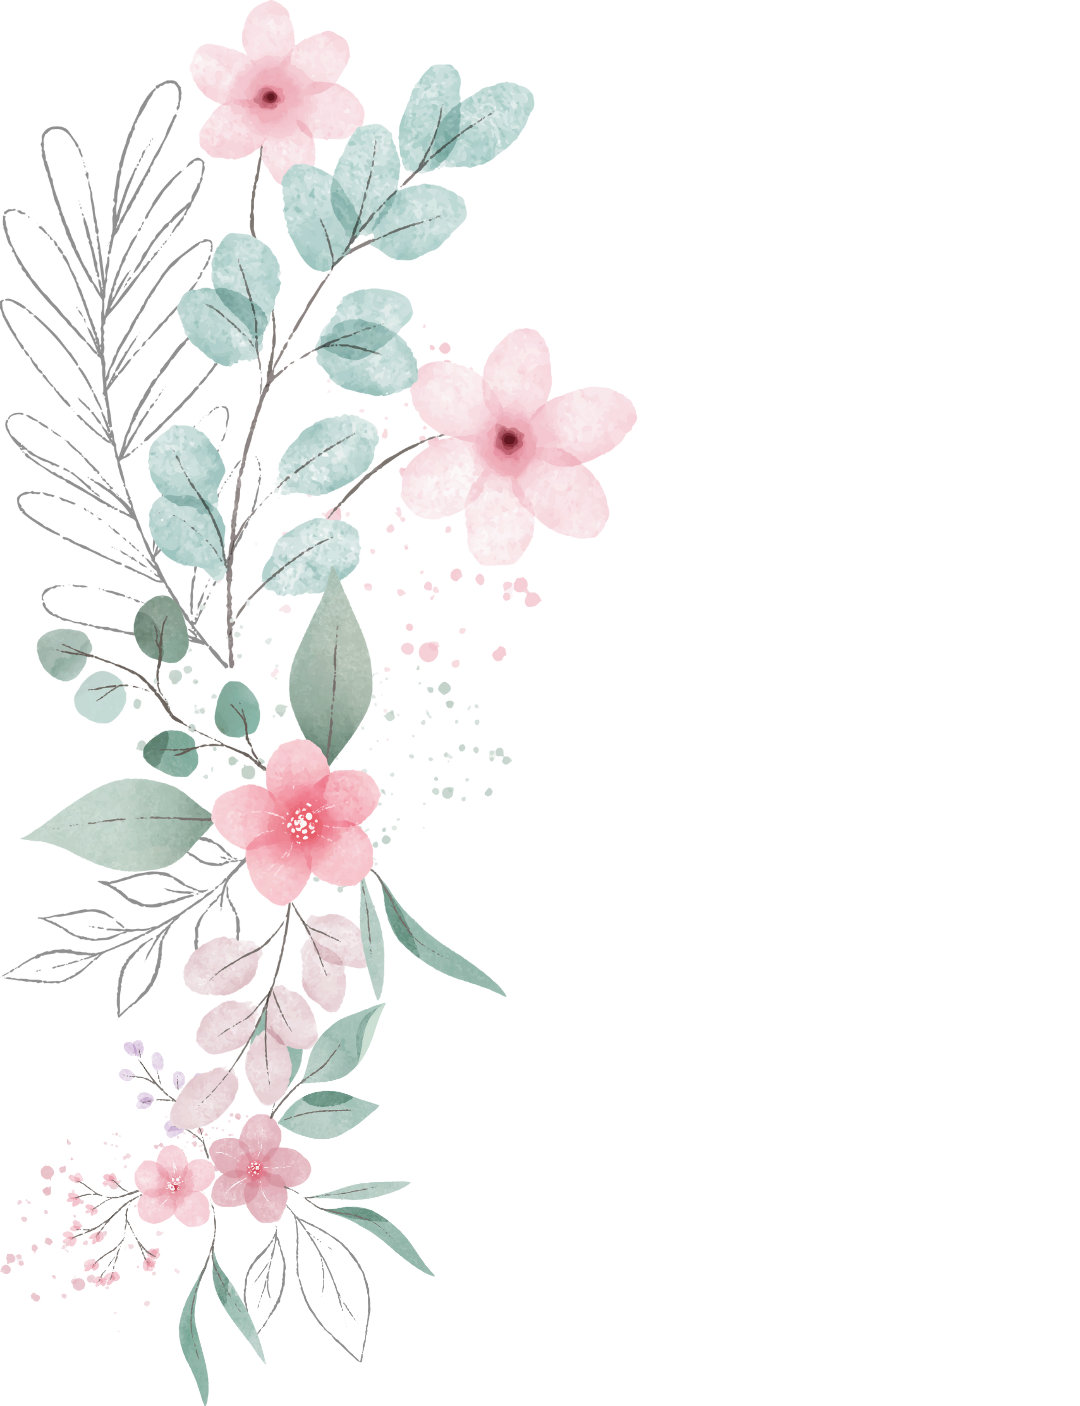
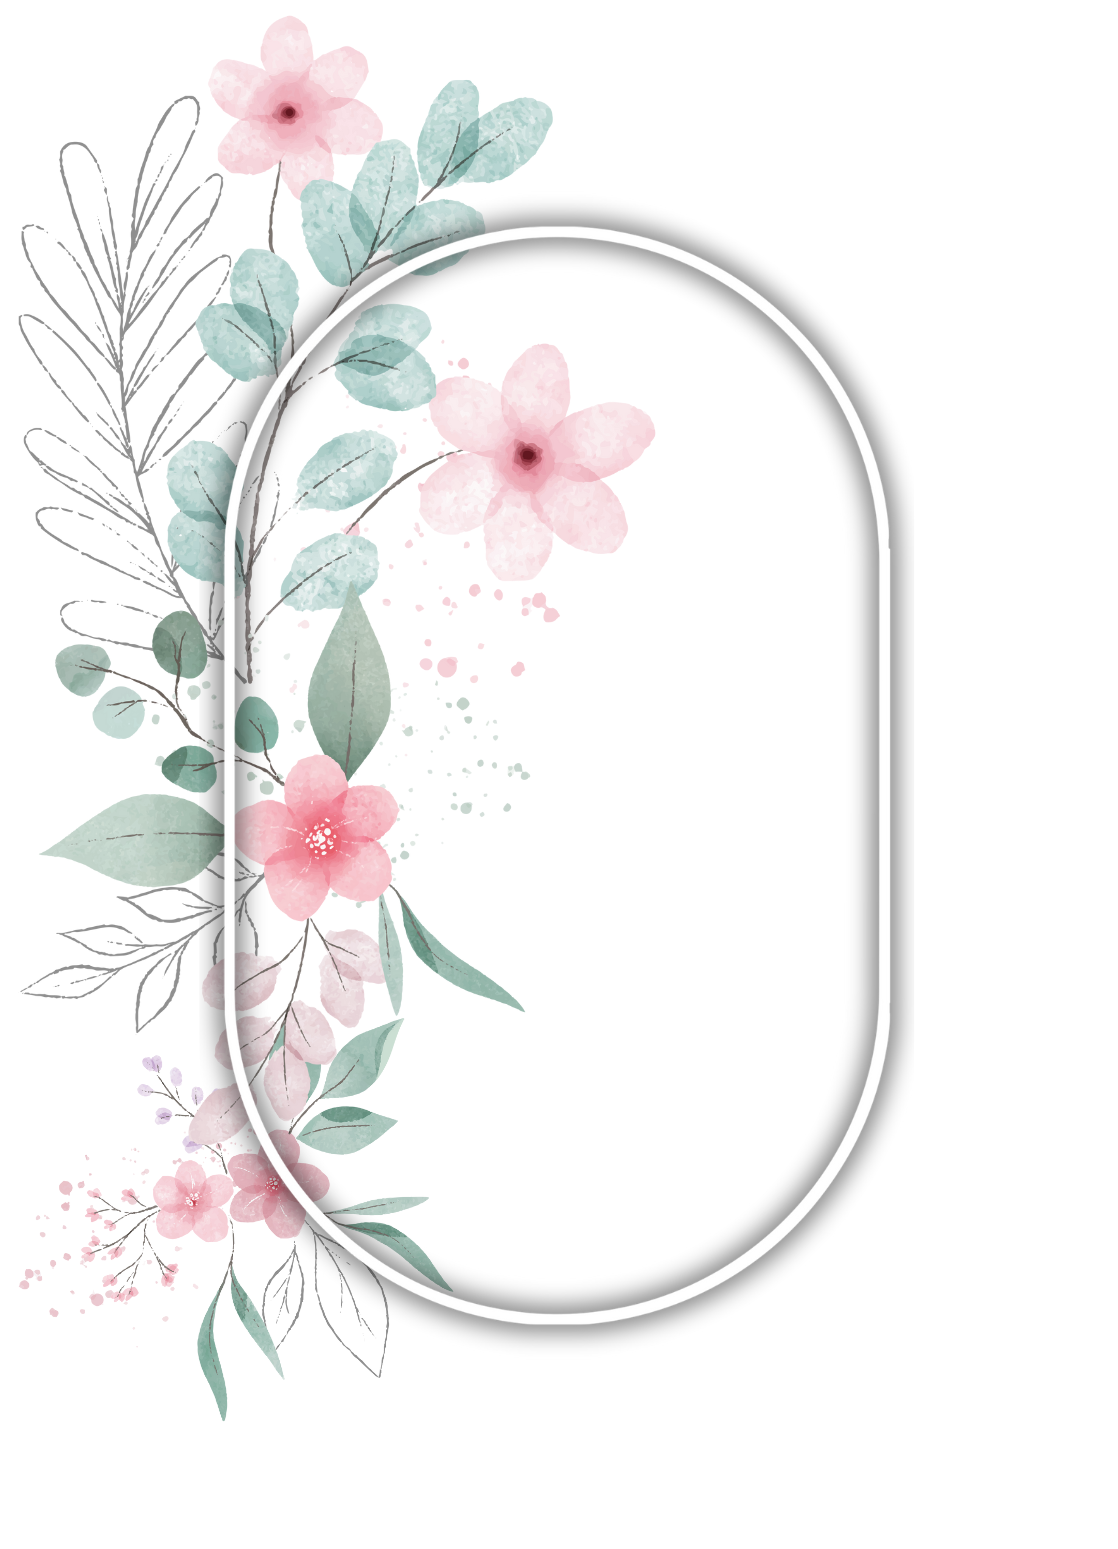
update

Changed region(s): [[0.0, 0.0, 0.825, 1.0], [0.0, 0.8869, 0.0306, 0.9175]]

diff --git a/style.css b/style.css
@@ -270,7 +270,6 @@ to { opacity: 1; transform: translateY(0); }
   display: flex;
   justify-content: center;
   align-items: flex-start;
-  padding-top: 10vh;
 }
 
 /* 🌄 Background tetap diam */
@@ -305,11 +304,10 @@ to { opacity: 1; transform: translateY(0); }
 
 /* 🌸 Gambar dasar panjang */
 #doa .base-img {
-  width: 100%;
-  transform: scale(1.3);
+  width: 90%;
   max-width: none;
   height: auto;
-  opacity: 0.8;
+  opacity: 1;
   margin: 0 auto;
   z-index: 1;
 }
@@ -319,9 +317,9 @@ to { opacity: 1; transform: translateY(0); }
   position: absolute;
   top: 0;
   left: 50%;
+  justify-content: center;
   transform: translateX(-50%);
   width: 90%;
-  max-width: 500px;
   height: 100%;
   z-index: 2;
 }
@@ -329,18 +327,24 @@ to { opacity: 1; transform: translateY(0); }
 /* 🌸 Item konten */
 .doa-item {
   position: absolute;
-  width: 100%;
+  top: 0;
   left: 50%;
   transform: translateX(-50%) translateY(40px);
+  width: 100%;
+  max-width: none;
+  display: flex;
+  flex-direction: column;
+  align-items: center;
+  justify-content: center;
+  text-align: center;
   opacity: 0;
   transition: opacity 1s ease, transform 1s ease;
-  text-align: center;
   color: #fff;
 }
 
 /* 🌸 Posisi vertikal */
-.con1 { top: 5%; }
-.con2 { top: 28%; }
+.con1 { top: 0%; }
+.con2 { top: 15%; }
 .con3 { top: 54%; }
 .con4 { top: 72%; }
 
@@ -353,29 +357,36 @@ to { opacity: 1; transform: translateY(0); }
 /* 🌸 Delay animasi halus */
 .doa-item.con1.show { transition-delay: 0.2s; }
 .doa-item.con2.show { transition-delay: 0.4s; }
-.doa-item.con3.show { transition-delay: 0.6s; }
-.doa-item.con4.show { transition-delay: 0.8s; }
+.doa-item.con3.show { transition-delay: 0.5s; }
 
 /* 🌸 Grup frame tumpuk */
 .frame-group {
   position: relative;
   width: 85%;
-  max-width: 400px;
+  max-width: none;
   margin: 0 auto;
+  display: flex;
+  justify-content: center;
+  align-items: center;
 }
 
 .frame-group .layer {
   position: absolute;
-  width: 100%;
-  left: 0;
   top: 0;
+  left: 50%;
+  transform: translateX(-50%);  /* pusatkan gambar */
+  width: 100%;
 }
 
 /* 🌸 Urutan tumpukan */
 .frame-group .f1 { z-index: 1; }
-.frame-group .f2 { z-index: 2; }
-.frame-group .ff { z-index: 3; border-radius: 10px; }
-.frame-group .f3 { z-index: 4; }
+.frame-group .f2 { z-index: 3; }
+.frame-group .ff { z-index: 2; }
+
+/* posisi frame */
+.frame-group .f1 { top: 0; left: 50; width: 95%; }
+.frame-group .f2 { top: 0; left: 50; width: 95%; }
+.frame-group .ff { top: 0; left: 50; width: 95%; }
 
 /* 🌸 Nama di bawah frame */
 .nama {
@@ -407,30 +418,6 @@ to { opacity: 1; transform: translateY(0); }
   line-height: 1.6;
   max-width: 400px;
   margin: 0 auto;
-}
-
-/* 🌸 Ukuran dan posisi frame bisa diatur manual */
-.frame-group {
-  position: relative;
-  width: var(--frame-width, 80%);
-  max-width: 420px;
-  margin: var(--frame-margin, 0 auto);
-  transform: scale(var(--frame-scale, 1));
-}
-
-.frame-group .layer {
-  position: absolute;
-  left: 0;
-  top: 0;
-  width: 100%;
-}
-
-/* 🌸 Atur ukuran foto di dalam frame */
-.frame-group .ff {
-  width: var(--foto-width, 83%);
-  left: 8%;
-  top: 9%;
-  border-radius: 10px;
 }
 
 /* 🌸 Atur jarak teks nama dari frame */

diff --git a/index.html b/index.html
@@ -70,9 +70,8 @@ src="https://lottie.host/40cfc9bf-2774-41e4-9436-592927122b7e/BK5QfbjIdN.lottie"
       <div class="doa-item con2">
         <div class="frame-group">
           <img src="f1.png" class="layer f1" alt="Bunga kiri">
-          <img src="f2.png" class="layer f2" alt="Frame utama">
+          <img src="f2.png" class="layer f2" alt="bunga kanan">
           <img src="ff2.png" class="layer ff" alt="Foto pertama">
-          <img src="f3.png" class="layer f3" alt="Bunga kanan">
         </div>
         <div class="nama">
           <h3>Nama Pertama</h3>
@@ -88,10 +87,9 @@ src="https://lottie.host/40cfc9bf-2774-41e4-9436-592927122b7e/BK5QfbjIdN.lottie"
       <!-- 4⃣ Frame & Foto 2 -->
       <div class="doa-item con4">
         <div class="frame-group">
-          <img src="f1.png" class="layer f1" alt="Bunga kiri">
-          <img src="f2.png" class="layer f2" alt="Frame utama">
+          <img src="f1.1.png" class="layer f1" alt="Bunga kiri">
+          <img src="f2.2.png" class="layer f2" alt="bunga kanan">
           <img src="ff4.png" class="layer ff" alt="Foto kedua">
-          <img src="f3.png" class="layer f3" alt="Bunga kanan">
         </div>
         <div class="nama">
           <h3>Nama Kedua</h3>
